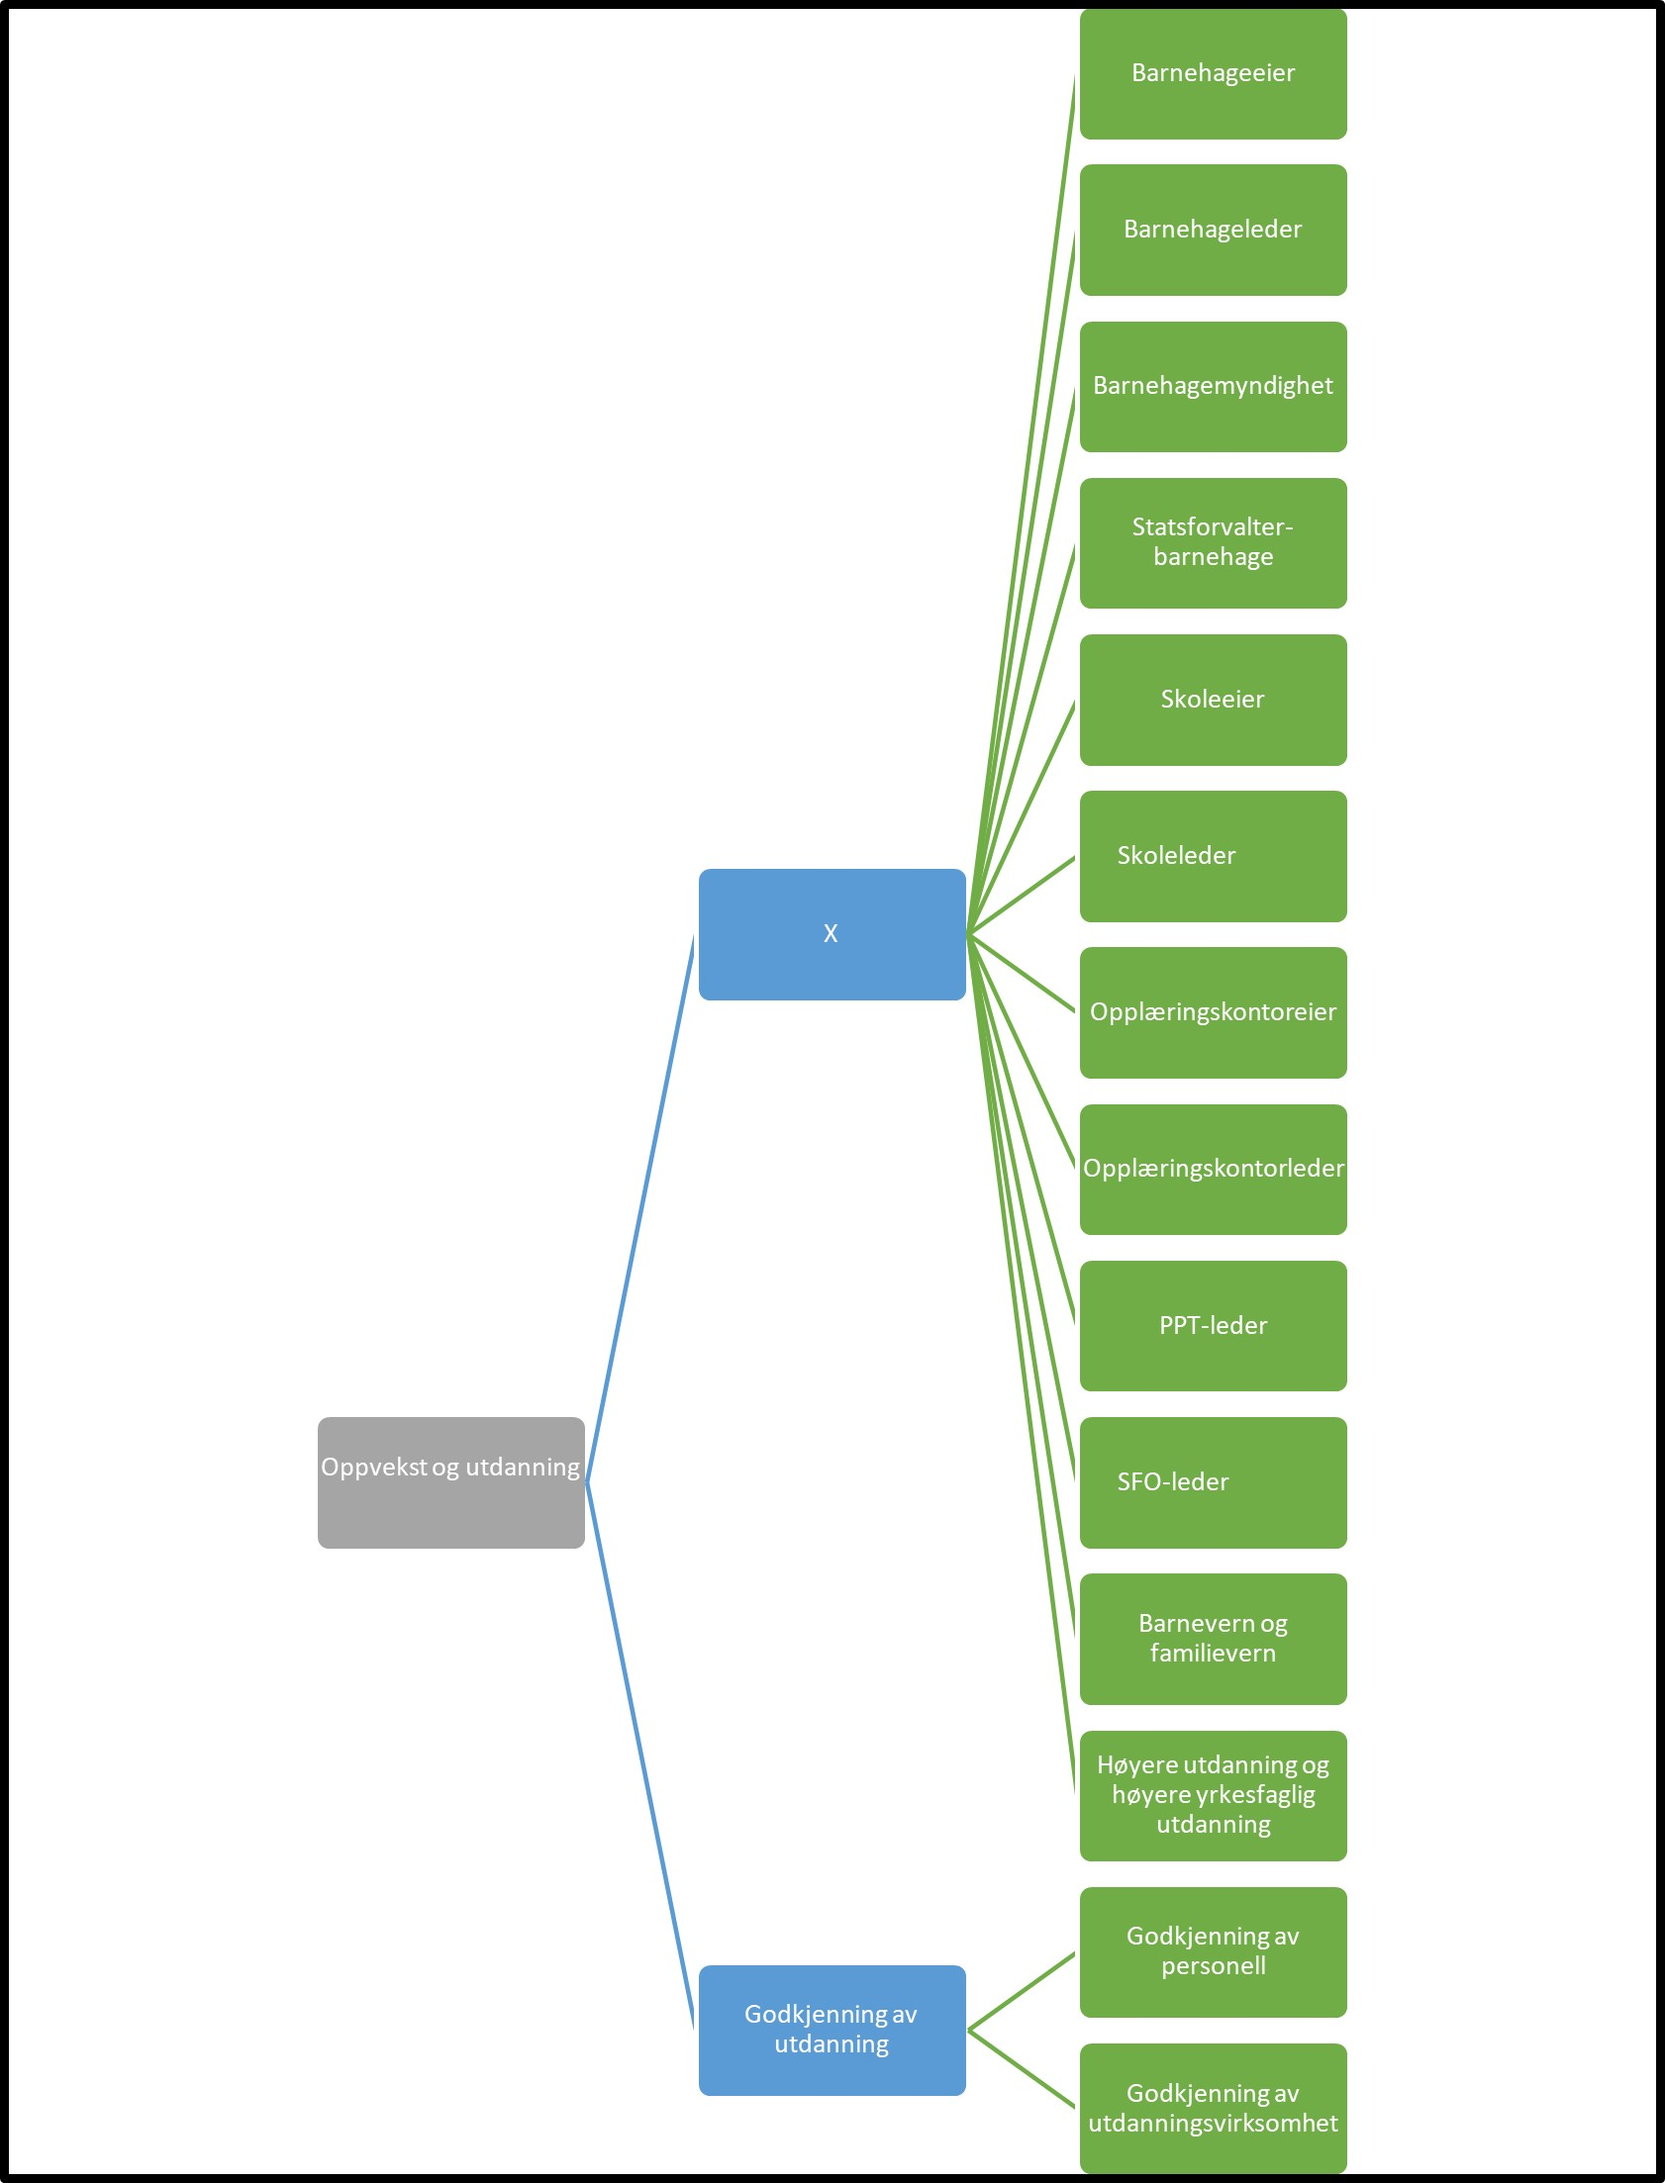
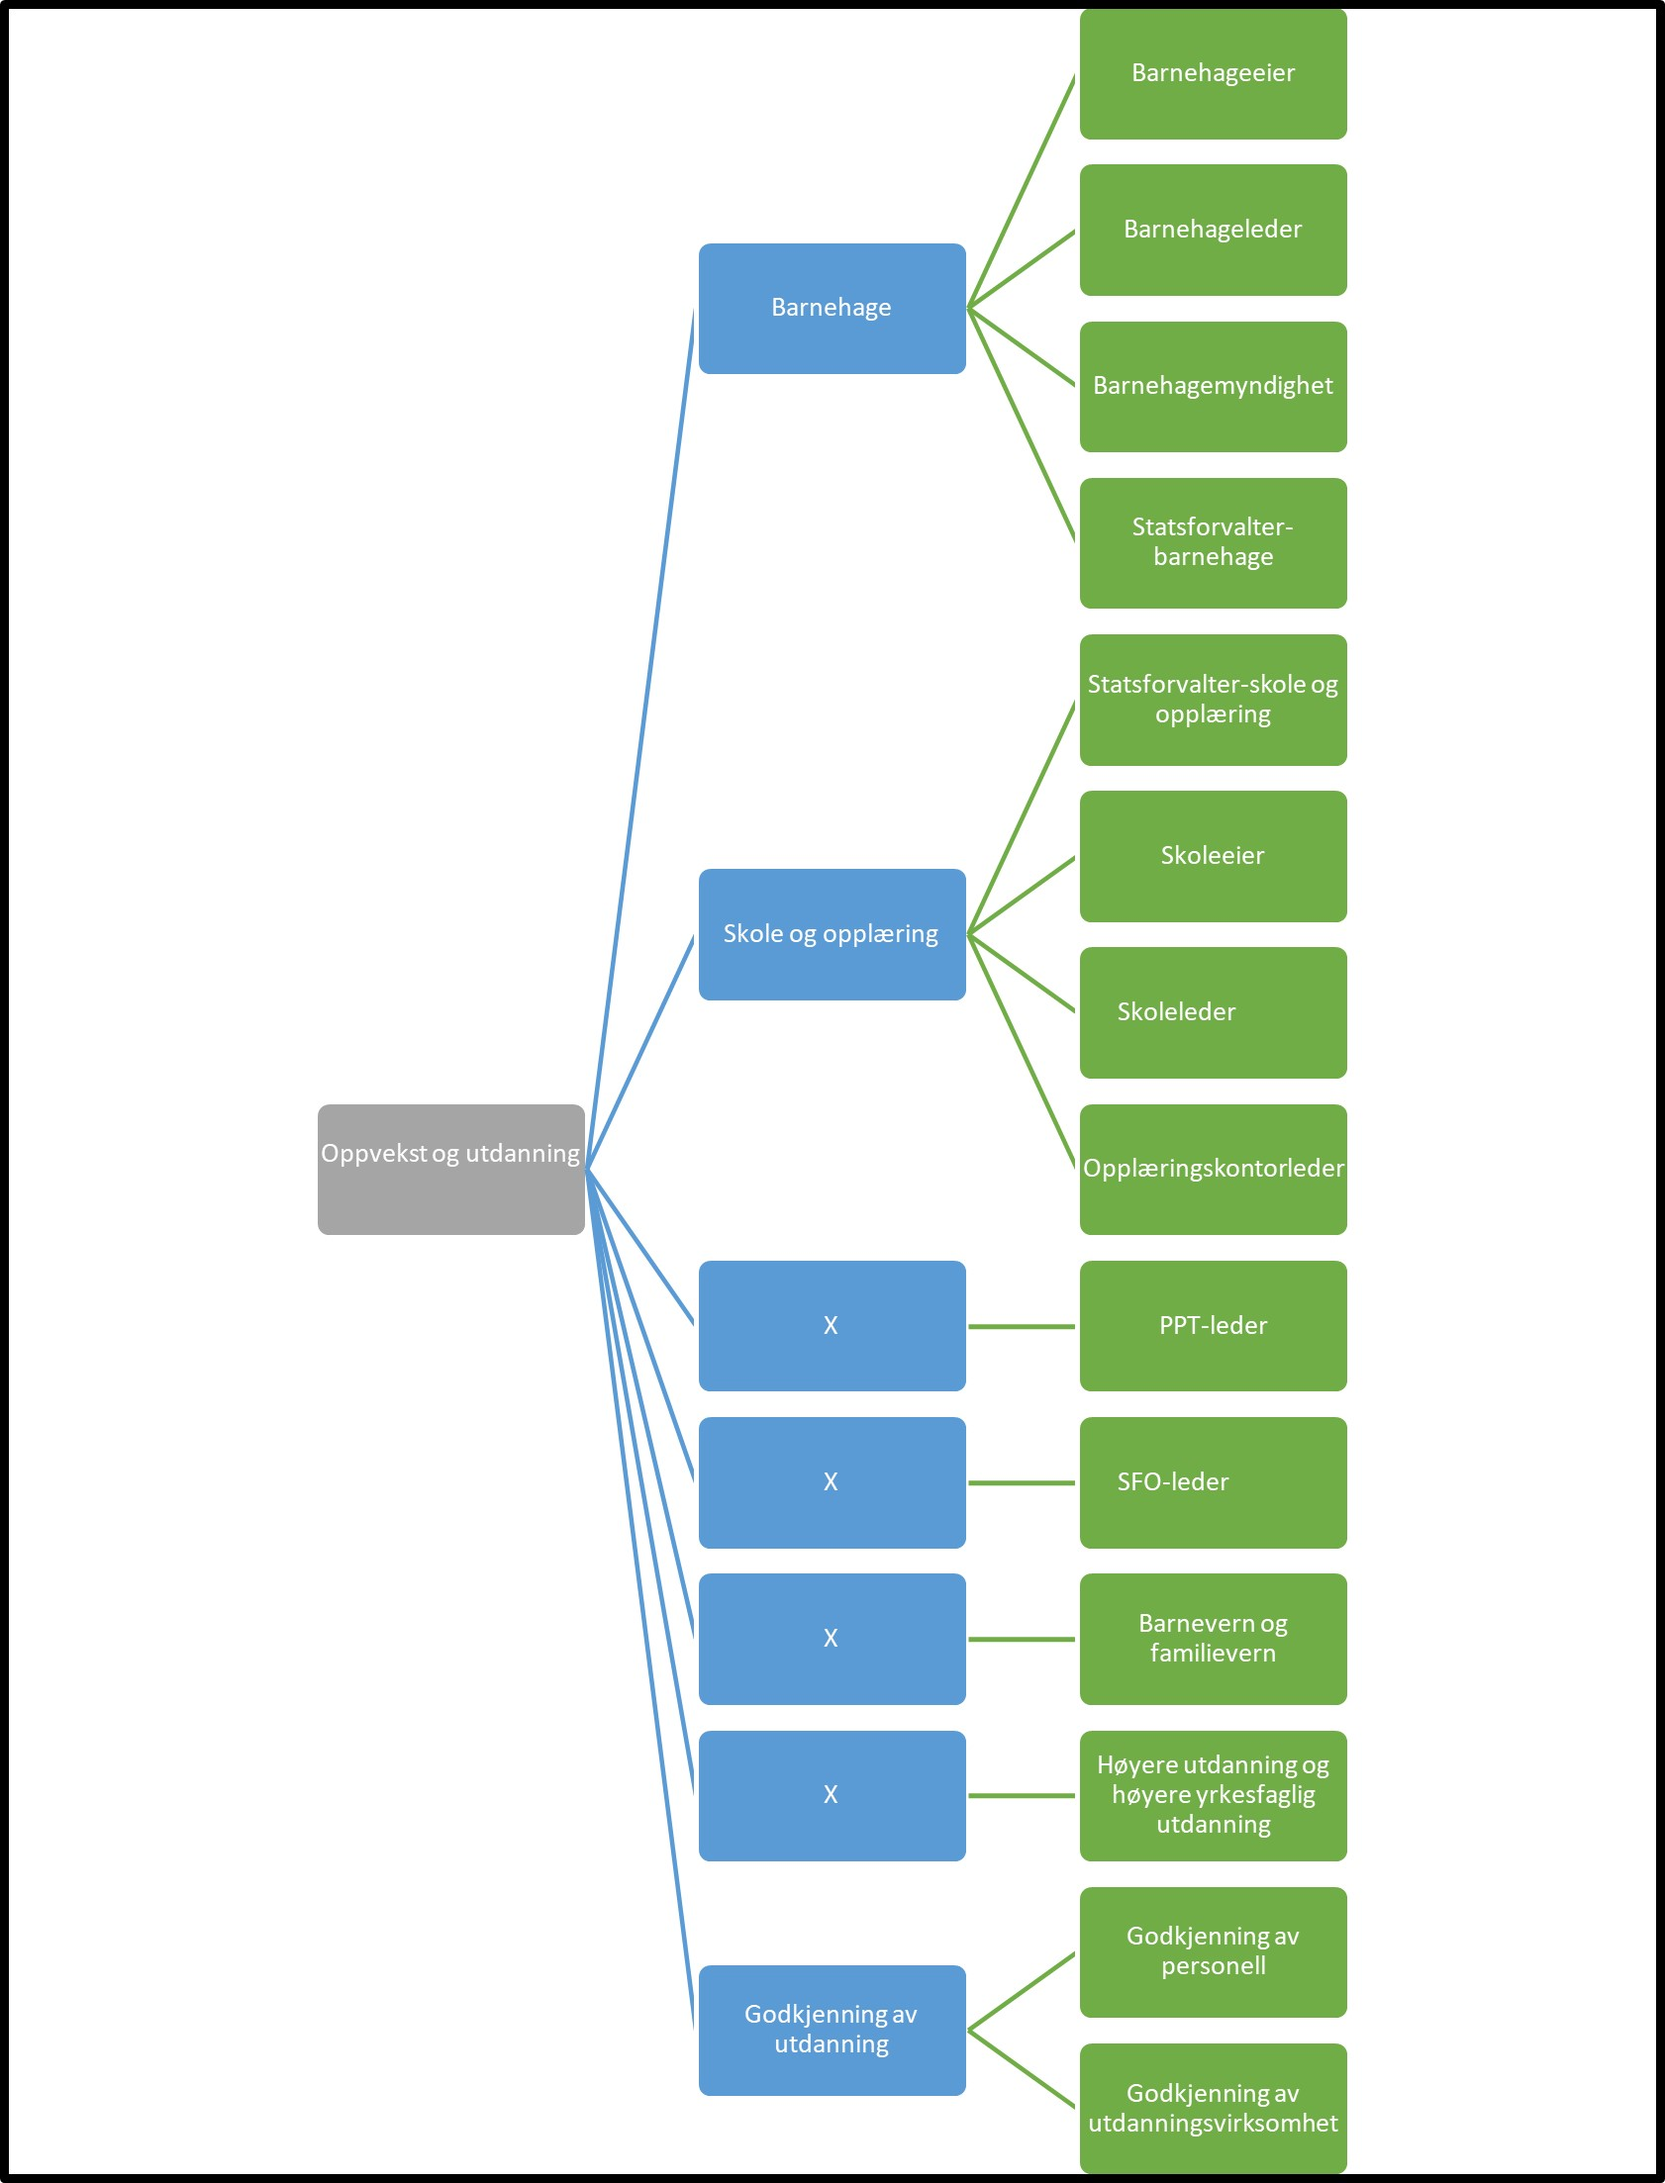
Korrigert og justert etter siste tilbakemelding

diff --git a/content/authorization/modules/accessgroups/type-accessgroups/versjon-3/oppvekst/_index.md b/content/authorization/modules/accessgroups/type-accessgroups/versjon-3/oppvekst/_index.md
@@ -10,12 +10,15 @@ Tilbake til [hovedoversikt](/authorization/modules/accessgroups/type-accessgroup
 
 ![Oppvekst og skole](os3.jpg "Oppvekst og skole")
 - **Oppvekst og utdanning** Denne fullmakten gir tilgang til alle tjenester som omhandler barnehage, skole og høyere utdanning. Ved regelverksendringer eller innføring av nye digitale tjenester kan det bli endringer i tilganger som fullmakten gir.
-    - **Barnehageeier** Denne fullmakten gir tilgang til alle tjenester innen drift av barnehage som barnehageeier er ansvarlig for. Ved regelverksendringer eller innføring av nye digitale tjenester kan det bli endringer i tilganger som fullmakten gir.
-    - **Barnehageleder** Denne fullmakten gir tilgang til alle tjenester innen drift av barnehage som barnehageleder er ansvarlig for. Ved regelverksendringer eller innføring av nye digitale tjenester kan det bli endringer i tilganger som fullmakten gir.
-    - **Barnehagemyndighet** Denne fullmakten gir tilgang til alle tjenester innen drift av barnehage som barnehagemyndighet er ansvarlig for. Ved regelverksendringer eller innføring av nye digitale tjenester kan det bli endringer i tilganger som fullmakten gir.
-    - **Statsforvalter-barnehage** Beskrivelse mangler
-    - **Skoleeier** Denne fullmakten gir tilgang til alle tjenester innen drift av skole som skoleeier er ansvarlig for. Ved regelverksendringer eller innføring av nye digitale tjenester kan det bli endringer i tilganger som fullmakten gir.
-    - **Skoleleder** Denne fullmakten gir tilgang til alle tjenester innen drift av skole som skoleleder er ansvarlig for. Ved regelverksendringer eller innføring av nye digitale tjenester kan det bli endringer i tilganger som fullmakten gir.
+    - **Barnehage** Denne fullmakten gir tilgang til alle tjenester innen drift av barnehage. Ved regelverksendringer eller innføring av nye digitale tjenester kan det bli endringer i tilganger som fullmakten gir.
+      - **Barnehageeier** Denne fullmakten gir tilgang til alle tjenester innen drift av barnehage som barnehageeier er ansvarlig for. Ved regelverksendringer eller innføring av nye digitale tjenester kan det bli endringer i tilganger som fullmakten gir.
+      - **Barnehageleder** Denne fullmakten gir tilgang til alle tjenester innen drift av barnehage som barnehageleder er ansvarlig for. Ved regelverksendringer eller innføring av nye digitale tjenester kan det bli endringer i tilganger som fullmakten gir.
+      - **Barnehagemyndighet** Denne fullmakten gir tilgang til alle tjenester innen drift av barnehage som barnehagemyndighet er ansvarlig for. Ved regelverksendringer eller innføring av nye digitale tjenester kan det bli endringer i tilganger som fullmakten gir.
+      - **Statsforvalter-barnehage** Beskrivelse mangler
+    - **Skole og opplæring** Denne fullmakten gir tilgang til alle tjenester innen drift av skole. Ved regelverksendringer eller innføring av nye digitale tjenester kan det bli endringer i tilganger som fullmakten gir.
+      - **Statsforvalter-skole og opplæring** Beskrivelse mangler
+      - **Skoleeier** Denne fullmakten gir tilgang til alle tjenester innen drift av skole som skoleeier er ansvarlig for. Ved regelverksendringer eller innføring av nye digitale tjenester kan det bli endringer i tilganger som fullmakten gir.
+      - **Skoleleder** Denne fullmakten gir tilgang til alle tjenester innen drift av skole som skoleleder er ansvarlig for. Ved regelverksendringer eller innføring av nye digitale tjenester kan det bli endringer i tilganger som fullmakten gir.
     - **Opplæringskontorleder** Denne fullmakten gir tilgang til alle tjenester innen drift av opplæringskontor som opplæringskontorleder er ansvarlig for. Ved regelverksendringer eller innføring av nye digitale tjenester kan det bli endringer i tilganger som fullmakten gir.
     - **PPT-leder** Denne fullmakten gir tilgang til alle tjenester innen drift av Pedagogisk-psykologisk tjeneste (PPT) som PPT-leder er ansvarlig for. Ved regelverksendringer eller innføring av nye digitale tjenester kan det bli endringer i tilganger som fullmakten gir.
     - **SFO-leder** Denne fullmakten gir tilgang til alle tjenester knyttet til førskole og fritidsordning. Ved regelverksendringer eller innføring av nye digitale tjenester kan det bli endringer i tilganger som fullmakten gir.
@@ -29,10 +32,13 @@ Tilbake til [hovedoversikt](/authorization/modules/accessgroups/type-accessgroup
 |Navn tillgangspakke|Kan delegeres til ansatte?|Kan knytte tjenester til?|[ER rolle](/authorization/modules/accessgroups/register_er/#rolletyper-fra-enhetsregisteret) som får fullmakten|
 |---|---|---|---|
 |Oppvekst og utdanning| ja|nei||
+|Barnehage|ja|nei||
 |Barnehageeier|ja|ja|DAGL, LEDE, INNH, DTPR, DTSO, KOMP, BEST, REPR, BOBE|
 |Barnehageleder|ja|ja|DAGL, LEDE, INNH, DTPR, DTSO, KOMP, BEST, REPR, BOBE|
 |Barnehagemyndighet|ja|ja|DAGL, LEDE, INNH, DTPR, DTSO, KOMP, BEST, REPR, BOBE|
 |Statsforvalter-barnehage|ja|ja|DAGL, LEDE, INNH, DTPR, DTSO, KOMP, BEST, REPR, BOBE|
+|Skole og opplæring|ja|nei||
+|Statsforvalter-skole og opplæring|ja|ja|DAGL, LEDE, INNH, DTPR, DTSO, KOMP, BEST, REPR, BOBE|
 |Skoleeier|ja|ja|DAGL, LEDE, INNH, DTPR, DTSO, KOMP, BEST, REPR, BOBE|
 |Skoleleder|ja|ja|DAGL, LEDE, INNH, DTPR, DTSO, KOMP, BEST, REPR, BOBE|
 |Opplæringskontorleder|ja|ja|DAGL, LEDE, INNH, DTPR, DTSO, KOMP, BEST, REPR, BOBE|

diff --git a/content/authorization/modules/accessgroups/type-accessgroups/versjon-3/forhold/_index.md b/content/authorization/modules/accessgroups/type-accessgroups/versjon-3/forhold/_index.md
@@ -22,6 +22,7 @@ Tilbake til [hovedoversikt](/authorization/modules/accessgroups/type-accessgroup
   - **Mine sider hos kommunen:** Denne fullmakten gir generell tilgang til tjenester av typen "mine side" tjenester hos kommuner. Ved regelverksendringer eller innføring av nye digitale tjenester kan det bli endringer i tilganger som fullmakten gir.
   - **Politi og domstol:** Denne fullmakten gir tilgang til alle tjenester knyttet til virksomhetens dialog om juridiske forhold med politi og jusitsmyndigheter. Ved regelverksendringer eller innføring av nye digitale tjenester kan det bli endringer i tilganger som fullmakten gir.
   - **Rapportering av statistikk:** Denne fullmakten gir tilgang til alle pålagte rapportering av statistikk. Ved regelverksendringer eller innføring av nye digitale tjenester kan det bli endringer i tilganger som fullmakten gir.
+  - **Forskning:** Denne fullmakten gir tilgang til tjenester knyttet til forskning. Ved regelverksendringer eller innføring av nye digitale tjenester kan det bli endringer i tilganger som fullmakten gir.
 
 
 ## Egenskaper ved tilgangspakkene
@@ -41,6 +42,7 @@ Tilbake til [hovedoversikt](/authorization/modules/accessgroups/type-accessgroup
 |Mine sider hos kommunen|ja|ja|DAGL, LEDE, INNH, DTPR, DTSO, KOMP, BEST, REPR, BOBE|
 |Politi og domstol|ja|ja|DAGL, LEDE, INNH, DTPR, DTSO, KOMP, BEST, REPR, BOBE|
 |Rapportering av statistikk|ja|ja|DAGL, LEDE, INNH, DTPR, DTSO, KOMP, BEST, REPR, BOBE|
+|Forskning|ja|ja|DAGL, LEDE, INNH, DTPR, DTSO, KOMP, BEST, REPR, BOBE|
 
 {{% notice warning %}} Det er fortsatt uavklart hvilke fullmakter det vil være natulig å gi personer med rollen Forretningsførerer innenfor fullmaktsområdet "Forhold ved virksomheten" {{% /notice %}}
 

diff --git a/content/authorization/modules/accessgroups/type-accessgroups/versjon-3/regnskapsførere/_index.md b/content/authorization/modules/accessgroups/type-accessgroups/versjon-3/regnskapsførere/_index.md
@@ -19,7 +19,7 @@ Tilbake til [hovedoversikt](/authorization/modules/accessgroups/type-accessgroup
 ## Egenskaper ved tilgangspakkene
 |Navn tillgangspakke|Kan delegeres til ansatte?|Kan knytte tjenester til?|[ER rolle](/authorization/modules/accessgroups/register_er/#rolletyper-fra-enhetsregisteret) som får fullmakten|
 |---|---|---|---|
-|Fullmakter for regnskapsførere| ja|nei||
+|Fullmakter for regnskapsførere| nei|nei||
 |Regnskapsfører med signeringsrettighet|ja|ja|REGN|
 |Regnskapsfører uten signeringsrettighet|ja|ja|REGN|
 |Regnskapsfører lønn|ja|ja|REGN|
